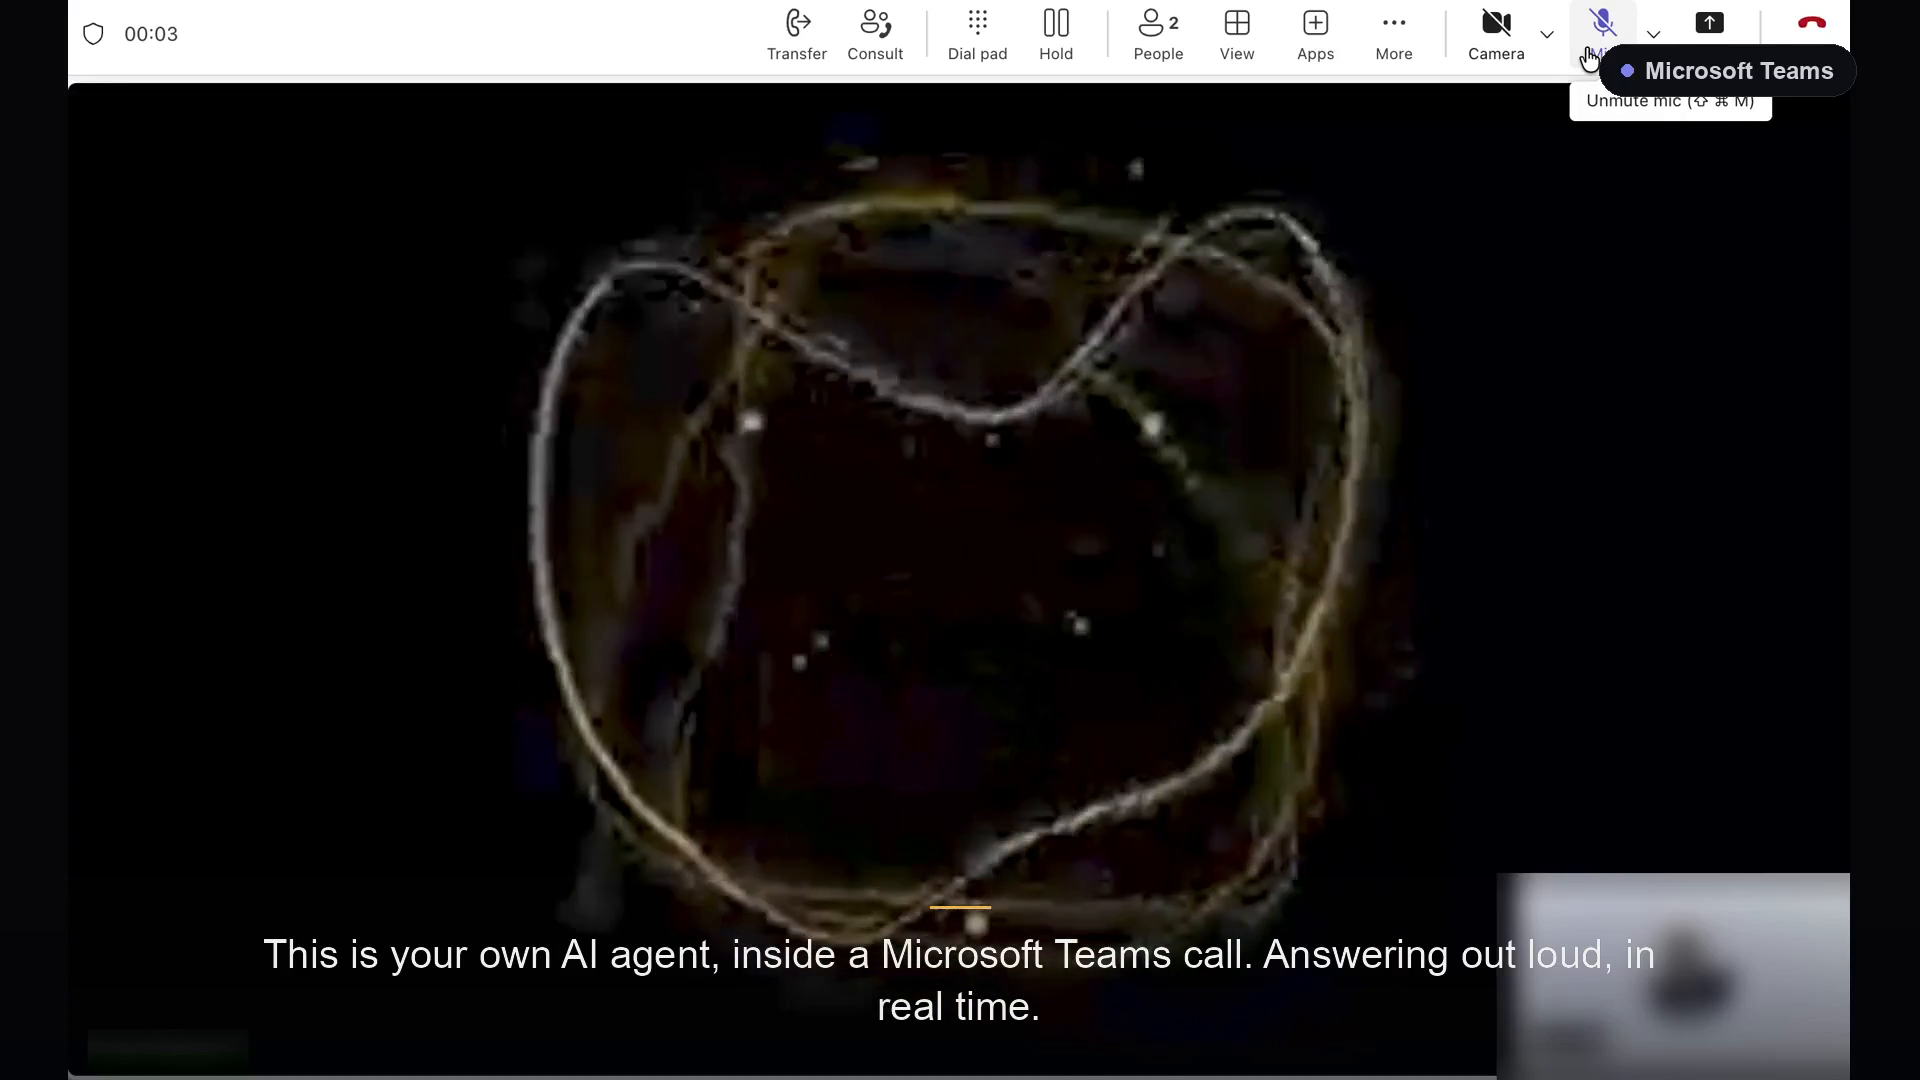
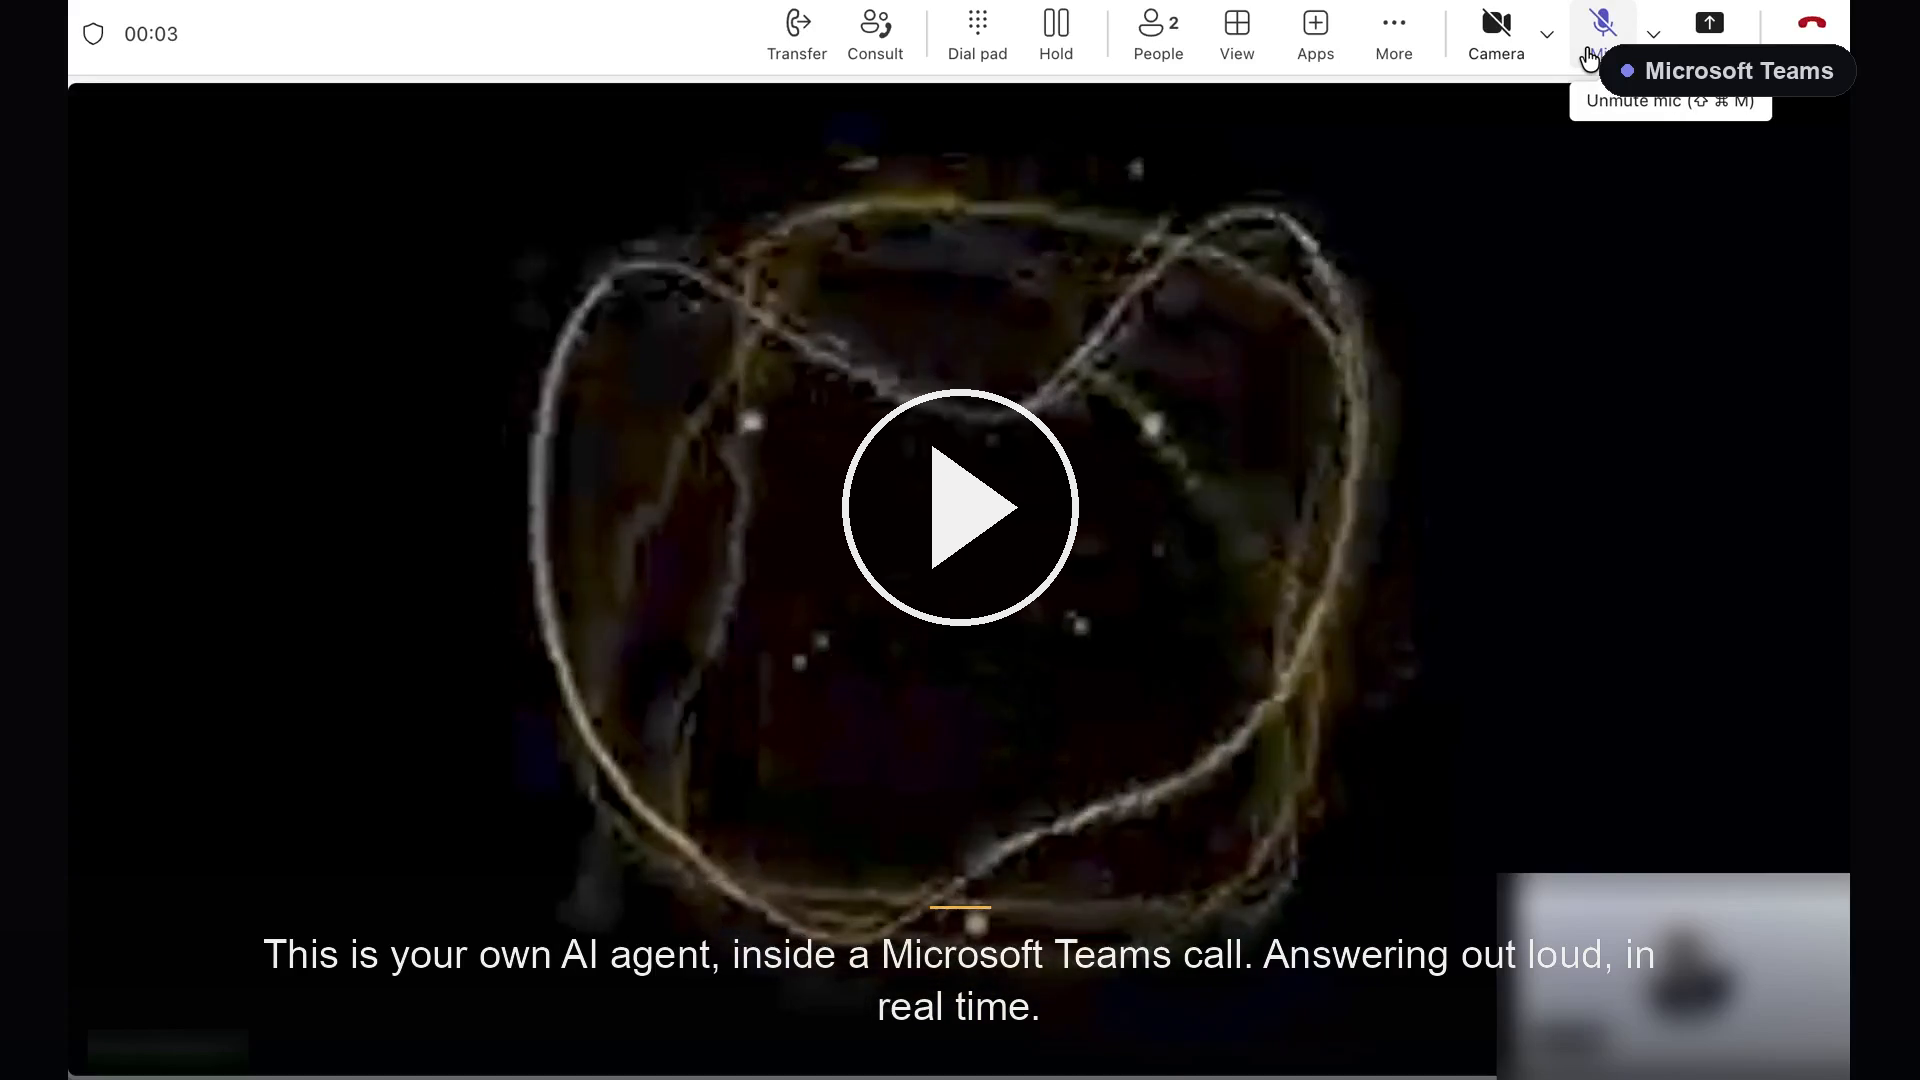
readme: use clickable poster thumbnail (GitHub strips inline <video> in READMEs); play button overlay

Changed region(s): [[0.4375, 0.3667, 0.5625, 0.55], [0.4688, 0.55, 0.5312, 0.5806]]

diff --git a/README.md b/README.md
@@ -14,9 +14,9 @@ Put your own AI agent into a Microsoft Teams call as a real participant, in your
 
 ## Demo
 
-<video src="https://github.com/komaa-com/standin/raw/main/assets/standin-demo.mp4" poster="https://github.com/komaa-com/standin/raw/main/assets/standin-demo-poster.png" controls muted width="100%"></video>
+[![Watch the StandIn demo: set up on OpenClaw, then a live Teams call](assets/standin-demo-poster.png)](https://github.com/komaa-com/standin/blob/main/assets/standin-demo.mp4)
 
-A 90-second walkthrough: set up StandIn on OpenClaw, then a real Microsoft Teams call where the agent answers, sees the shared screen, speaks when addressed, and appears as a lip-synced avatar on its tile. [Watch it here](https://github.com/komaa-com/standin/raw/main/assets/standin-demo.mp4) if the player does not load.
+A 90-second walkthrough: set up StandIn on OpenClaw, then a real Microsoft Teams call where the agent answers, sees the shared screen, speaks when addressed, and appears as a lip-synced avatar on its tile. [Watch the demo](https://github.com/komaa-com/standin/blob/main/assets/standin-demo.mp4).
 
 ## What it does
 
